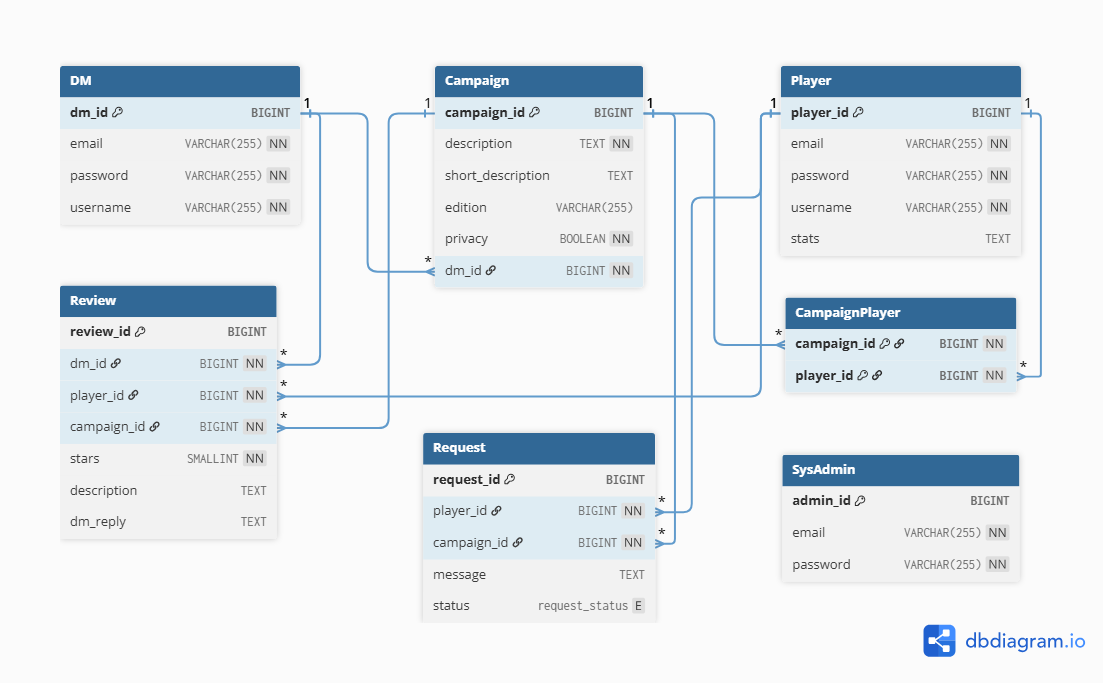
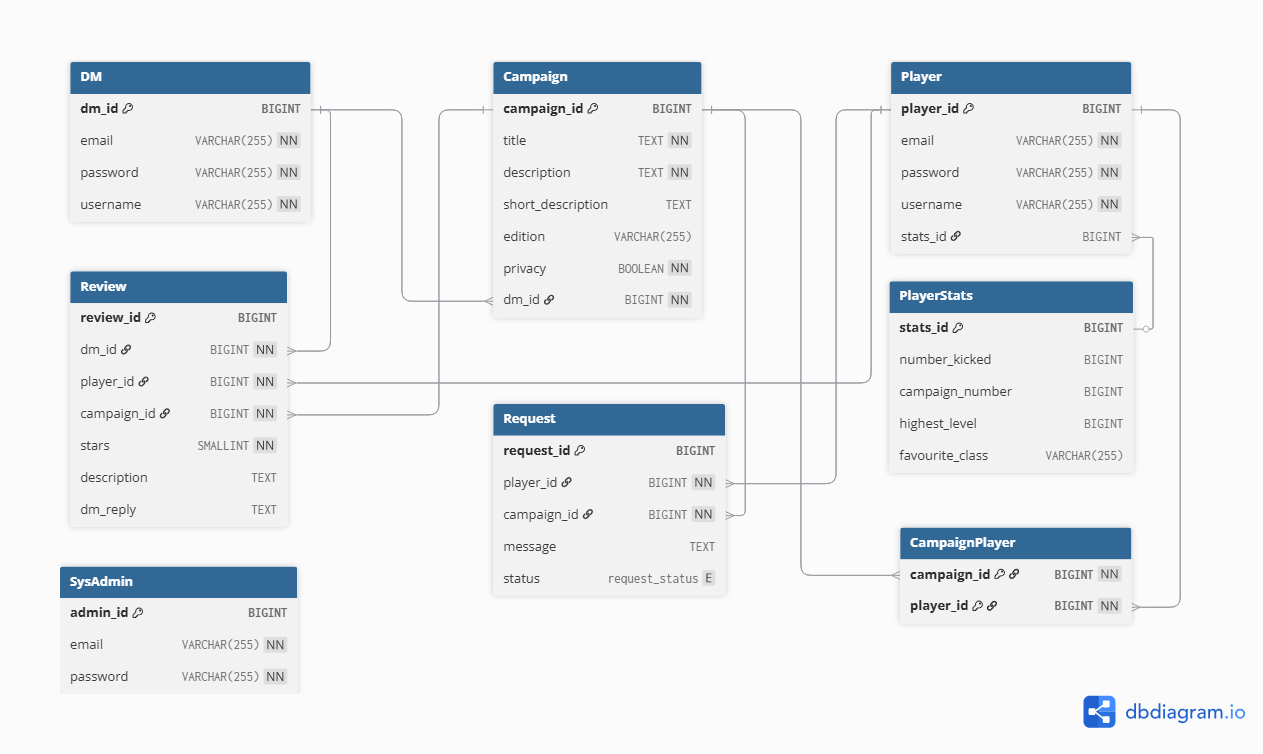
Fixed functionality for API requests to use the correct number of provided details. Fixed issue with method in DM.java. Added player stats as a new class instead of a string. Modified schema to reflect these changes.

diff --git a/backend-api/src/main/java/Nat20/Network/players/PlayerController.java b/backend-api/src/main/java/Nat20/Network/players/PlayerController.java
@@ -13,6 +13,7 @@ import java.util.List;
 
 public class PlayerController {
     private final PlayerService playerService;
+    private final PlayerStatsService playerStatsService;
 
     @PostMapping
     public ResponseEntity<Player> createPlayer(@Valid @RequestBody Player player) {
@@ -37,6 +38,50 @@ public class PlayerController {
     @DeleteMapping("/{id}")
     public ResponseEntity<Void> deletePlayer(@PathVariable Long id) {
         playerService.deletePlayer(id);
+        return ResponseEntity.noContent().build();
+    }
+
+    @GetMapping("/{playerId}/stats")
+    public ResponseEntity<PlayerStats> getPlayerStats(@PathVariable Long playerId) {
+        Player player = playerService.getPlayerById(playerId);
+        PlayerStats stats = player.getStats();
+        if (stats == null) {
+            return ResponseEntity.notFound().build();
+        }
+        return ResponseEntity.ok(stats);
+    }
+
+    @PostMapping("/{playerId}/stats")
+    public ResponseEntity<PlayerStats> createPlayerStats(@PathVariable Long playerId,
+                                                         @Valid @RequestBody PlayerStats stats) {
+        Player player = playerService.getPlayerById(playerId);
+        stats = playerStatsService.createStats(stats);
+        player.setStats(stats); // link stats to player
+        playerService.updatePlayer(playerId, player);
+        return ResponseEntity.ok(stats);
+    }
+
+    @PutMapping("/{playerId}/stats")
+    public ResponseEntity<PlayerStats> updatePlayerStats(@PathVariable Long playerId,
+                                                         @Valid @RequestBody PlayerStats stats) {
+        Player player = playerService.getPlayerById(playerId);
+        PlayerStats existingStats = player.getStats();
+        if (existingStats == null) {
+            return ResponseEntity.notFound().build();
+        }
+        PlayerStats updatedStats = playerStatsService.updateStats(existingStats.getId(), stats);
+        return ResponseEntity.ok(updatedStats);
+    }
+
+    @DeleteMapping("/{playerId}/stats")
+    public ResponseEntity<Void> deletePlayerStats(@PathVariable Long playerId) {
+        Player player = playerService.getPlayerById(playerId);
+        PlayerStats stats = player.getStats();
+        if (stats != null) {
+            playerStatsService.deleteStats(stats.getId());
+            player.setStats(null);
+            playerService.updatePlayer(playerId, player);
+        }
         return ResponseEntity.noContent().build();
     }
 }

diff --git a/backend-api/src/main/java/Nat20/Network/players/PlayerStatsService.java b/backend-api/src/main/java/Nat20/Network/players/PlayerStatsService.java
@@ -1,0 +1,41 @@
+package Nat20.Network.players;
+
+import org.springframework.beans.factory.annotation.Autowired;
+import org.springframework.stereotype.Service;
+
+import java.util.List;
+import java.util.Optional;
+
+@Service
+public class PlayerStatsService {
+
+    @Autowired
+    private PlayerStatsRepository repository;
+
+    public List<PlayerStats> getAllStats() {
+        return repository.findAll();
+    }
+
+    public Optional<PlayerStats> getStatsById(Long id) {
+        return repository.findById(id);
+    }
+
+    public PlayerStats createStats(PlayerStats stats) {
+        return repository.save(stats);
+    }
+
+    public PlayerStats updateStats(Long id, PlayerStats updatedStats) {
+        return repository.findById(id).map(stats -> {
+            stats.setNumberOfTimesKicked(updatedStats.getNumberOfTimesKicked());
+            stats.setNumberOfCampaigns(updatedStats.getNumberOfCampaigns());
+            stats.setHighestLevel(updatedStats.getHighestLevel());
+            stats.setFavouriteClass(updatedStats.getFavouriteClass());
+            return repository.save(stats);
+        }).orElseThrow(() -> new RuntimeException("PlayerStats not found with id " + id));
+    }
+
+    public void deleteStats(Long id) {
+        repository.deleteById(id);
+    }
+}
+

diff --git a/backend-api/src/main/java/Nat20/Network/players/Player.java b/backend-api/src/main/java/Nat20/Network/players/Player.java
@@ -6,6 +6,8 @@ import jakarta.validation.constraints.Email;
 import jakarta.validation.constraints.NotBlank;
 import lombok.Data;
 import lombok.NoArgsConstructor;
+
+import com.fasterxml.jackson.annotation.JsonIgnore;
 import com.fasterxml.jackson.annotation.JsonIgnoreProperties;
 import java.util.HashSet;
 import java.util.Set;
@@ -33,15 +35,18 @@ public class Player {
     @Column(nullable = false)
     private String password;
 
+    @JsonIgnore
     @JsonIgnoreProperties("players")
-   @ManyToMany(mappedBy = "players")
+    @ManyToMany(mappedBy = "players")
     private Set<Campaign> campaigns = new HashSet<>();
+
+    @OneToOne(cascade = CascadeType.ALL, orphanRemoval = true)
+    @JoinColumn(name = "stats_id", referencedColumnName = "id")
+    private PlayerStats stats;
 
     public Player(long id) {
         this.playerID = id;
     }
-    
-    
 
     public Set<Campaign> getCampaigns() {
         return campaigns;
@@ -56,4 +61,5 @@ public class Player {
         campaigns.remove(c);
         c.getPlayers().remove(this);
     }
+
 }

diff --git a/backend-api/src/main/java/Nat20/Network/review/Review.java b/backend-api/src/main/java/Nat20/Network/review/Review.java
@@ -6,6 +6,8 @@ import jakarta.validation.constraints.Min;
 import jakarta.validation.constraints.NotNull;
 import lombok.Data;
 import lombok.NoArgsConstructor;
+
+import com.fasterxml.jackson.annotation.JsonIgnore;
 import com.fasterxml.jackson.annotation.JsonIgnoreProperties;
 
 import Nat20.Network.campaign.Campaign;
@@ -25,12 +27,12 @@ public class Review {
 
     @ManyToOne
     @JoinColumn(name = "player_id", nullable = false)
-    @JsonIgnoreProperties({"reviews", "subscriptions"})
+    @JsonIgnoreProperties({"name", "email", "password", "campaigns", "stats"})
     private Player player;
 
     @ManyToOne
     @JoinColumn(name = "dm_id", nullable = false)
-    @JsonIgnoreProperties("reviews")
+    @JsonIgnoreProperties({"username", "email", "password", "campaigns", "reviews"})
     private DM dm;
 
     @ManyToOne
@@ -58,6 +60,7 @@ public class Review {
     @NotNull
     private LocalDateTime createdAt = LocalDateTime.now();
 
+    @JsonIgnore
     @Column(columnDefinition = "TEXT")
     private String dmResponse;
 

diff --git a/backend-api/src/main/java/Nat20/Network/campaign/Campaign.java b/backend-api/src/main/java/Nat20/Network/campaign/Campaign.java
@@ -4,6 +4,8 @@ import jakarta.persistence.*;
 import jakarta.validation.constraints.NotBlank;
 import lombok.Data;
 import lombok.NoArgsConstructor;
+
+import com.fasterxml.jackson.annotation.JsonIgnore;
 import com.fasterxml.jackson.annotation.JsonIgnoreProperties;
 
 import Nat20.Network.dungeonMaster.*;
@@ -33,17 +35,17 @@ public class Campaign {
 
     @Column(nullable = false, length = 255)
     private String edition;
-
-    @NotBlank
+    
     @Column(nullable = false)
     private Boolean isPublic = false;
 
     @ManyToOne
     @JoinColumn(name = "dm_id", nullable = false)
-    @JsonIgnoreProperties("campaigns")
+    @JsonIgnoreProperties({"username", "email", "password", "campaigns", "reviews"})
     private DM dm_id;
 
     @ManyToMany
+    @JsonIgnore
     @JoinTable(
         name = "campaign_players",
         joinColumns = @JoinColumn(name = "campaign_id", referencedColumnName = "campaignID"),

diff --git a/backend-api/src/main/java/Nat20/Network/players/PlayerStats.java b/backend-api/src/main/java/Nat20/Network/players/PlayerStats.java
@@ -1,0 +1,33 @@
+package Nat20.Network.players;
+
+import com.fasterxml.jackson.annotation.JsonIgnore;
+
+import jakarta.persistence.*;
+import lombok.Data;
+import lombok.NoArgsConstructor;
+
+@Data
+@NoArgsConstructor
+@Entity
+@Table(name = "player_stats")
+public class PlayerStats {
+    @Id
+    @GeneratedValue(strategy = GenerationType.IDENTITY)
+    private Long id;
+
+    @OneToOne(mappedBy = "stats")
+    @JsonIgnore
+    private Player player;
+
+    @Column(nullable = false)
+    private Integer numberOfTimesKicked = 0;
+
+    @Column(nullable = false)
+    private Integer numberOfCampaigns = 0;
+
+    @Column(nullable = false)
+    private Integer highestLevel = 0;
+
+    @Column(length = 255)
+    private String favouriteClass;
+}

diff --git a/backend-api/src/main/java/Nat20/Network/campaign/CampaignController.java b/backend-api/src/main/java/Nat20/Network/campaign/CampaignController.java
@@ -15,7 +15,7 @@ public class CampaignController {
     private final CampaignService campaignService;
     
     @PostMapping
-    public ResponseEntity<Campaign> createDm(@Valid @RequestBody Campaign campaign) {
+    public ResponseEntity<Campaign> createCampaign(@Valid @RequestBody Campaign campaign) {
         return ResponseEntity.ok(campaignService.createCampaign(campaign));
     }
 

diff --git a/backend-api/src/main/java/Nat20/Network/players/PlayerStatsRepository.java b/backend-api/src/main/java/Nat20/Network/players/PlayerStatsRepository.java
@@ -1,0 +1,7 @@
+package Nat20.Network.players;
+import org.springframework.data.jpa.repository.JpaRepository;
+import org.springframework.stereotype.Repository;
+
+@Repository
+public interface PlayerStatsRepository extends JpaRepository<PlayerStats, Long> {
+}
